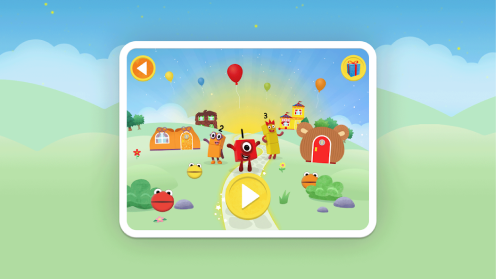
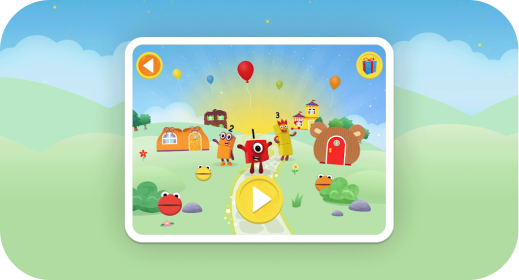
Punto 6 terminado

diff --git a/index.html b/index.html
@@ -64,9 +64,8 @@
             </section>
             
             <div class="cuadrado_imagenes">
-
+                <div class="cuadrado_img"></div>
             </div>
-            <div class="cuadrado_img"></div>
             
             <div class="muñeco_4"></div>
             <div class="muñeco_5"></div>
@@ -214,6 +213,7 @@
                 <div class="redes_sociales"></div>
             </div>
         </footer>
+        <script src="./js/punto_6.js"></script>
     </main>
 </body>
 </html>

diff --git a/js/punto_6.js b/js/punto_6.js
@@ -1,0 +1,19 @@
+const img = document.querySelector(".cuadrado_img");
+
+const imgs = ["./assets/imgs/imagen_2.png", "./assets/imgs/imagen_3.png", "./assets/imgs/imagen_4.png"]
+
+img.style.backgroundImage = "url('./assets/imgs/imagen_2.png')";
+
+let index = 1;
+function changeImage() {
+    img.style.backgroundImage = `url(${imgs[index]})`;
+    img.style.backgroundRepeat = 'no repeat';
+
+    if(index === 2)
+        index = 0
+    else
+        index += 1;
+}
+
+setInterval(changeImage, 1000);
+

diff --git a/css/section_2.css b/css/section_2.css
@@ -38,6 +38,9 @@
 }
 
 .cuadrado_imagenes {
+    display: flex;
+    flex-direction: column;
+    gap: 200px;
     position: absolute;
     border: 29px solid #1B5F99;
     border-radius: 77px;
@@ -48,13 +51,8 @@
 }
 
 .cuadrado_img {
-    background-image: url("../assets/imgs/imagen_2.png");
-    position: absolute;
-    width: 522px;
-    height: 279.03px;
-    top: 365px;
-    left: 262px;
-    border-radius: 50px;
+    width: 518.38px;
+    height: 280px;
 }
 
 .muñeco_4 {
